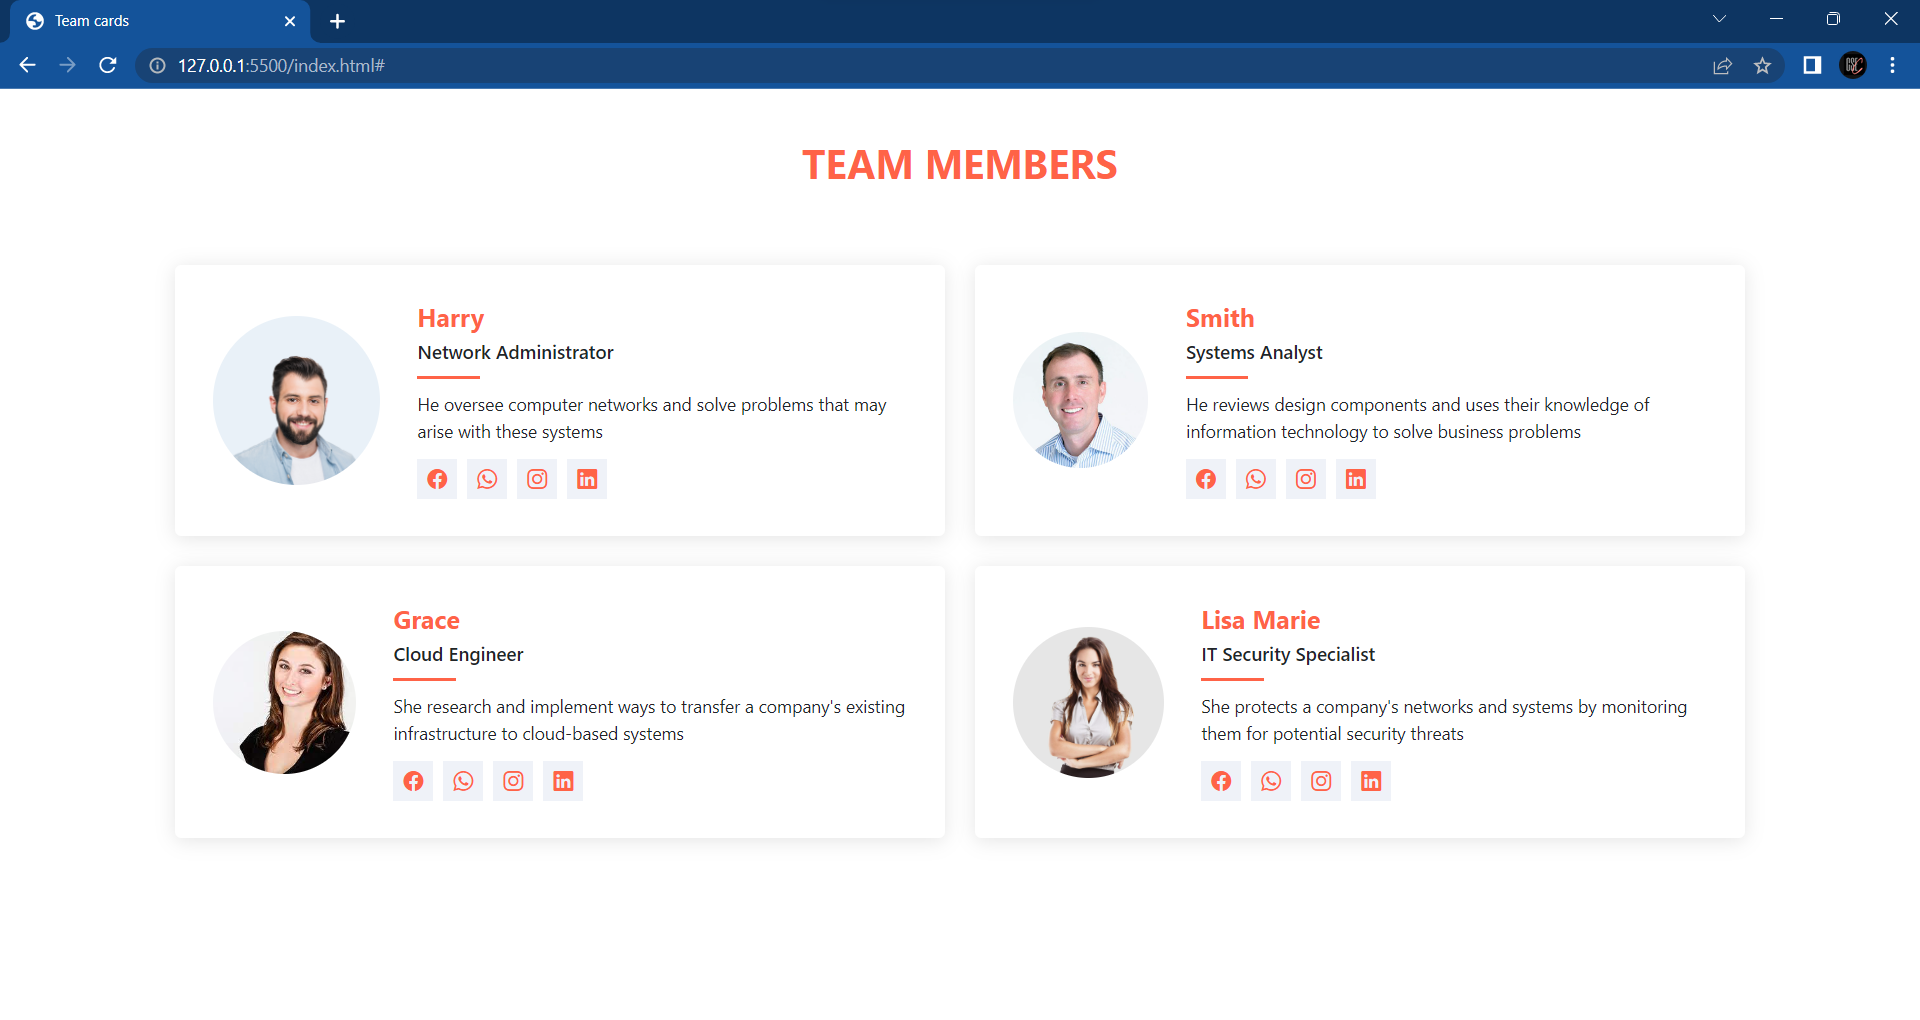
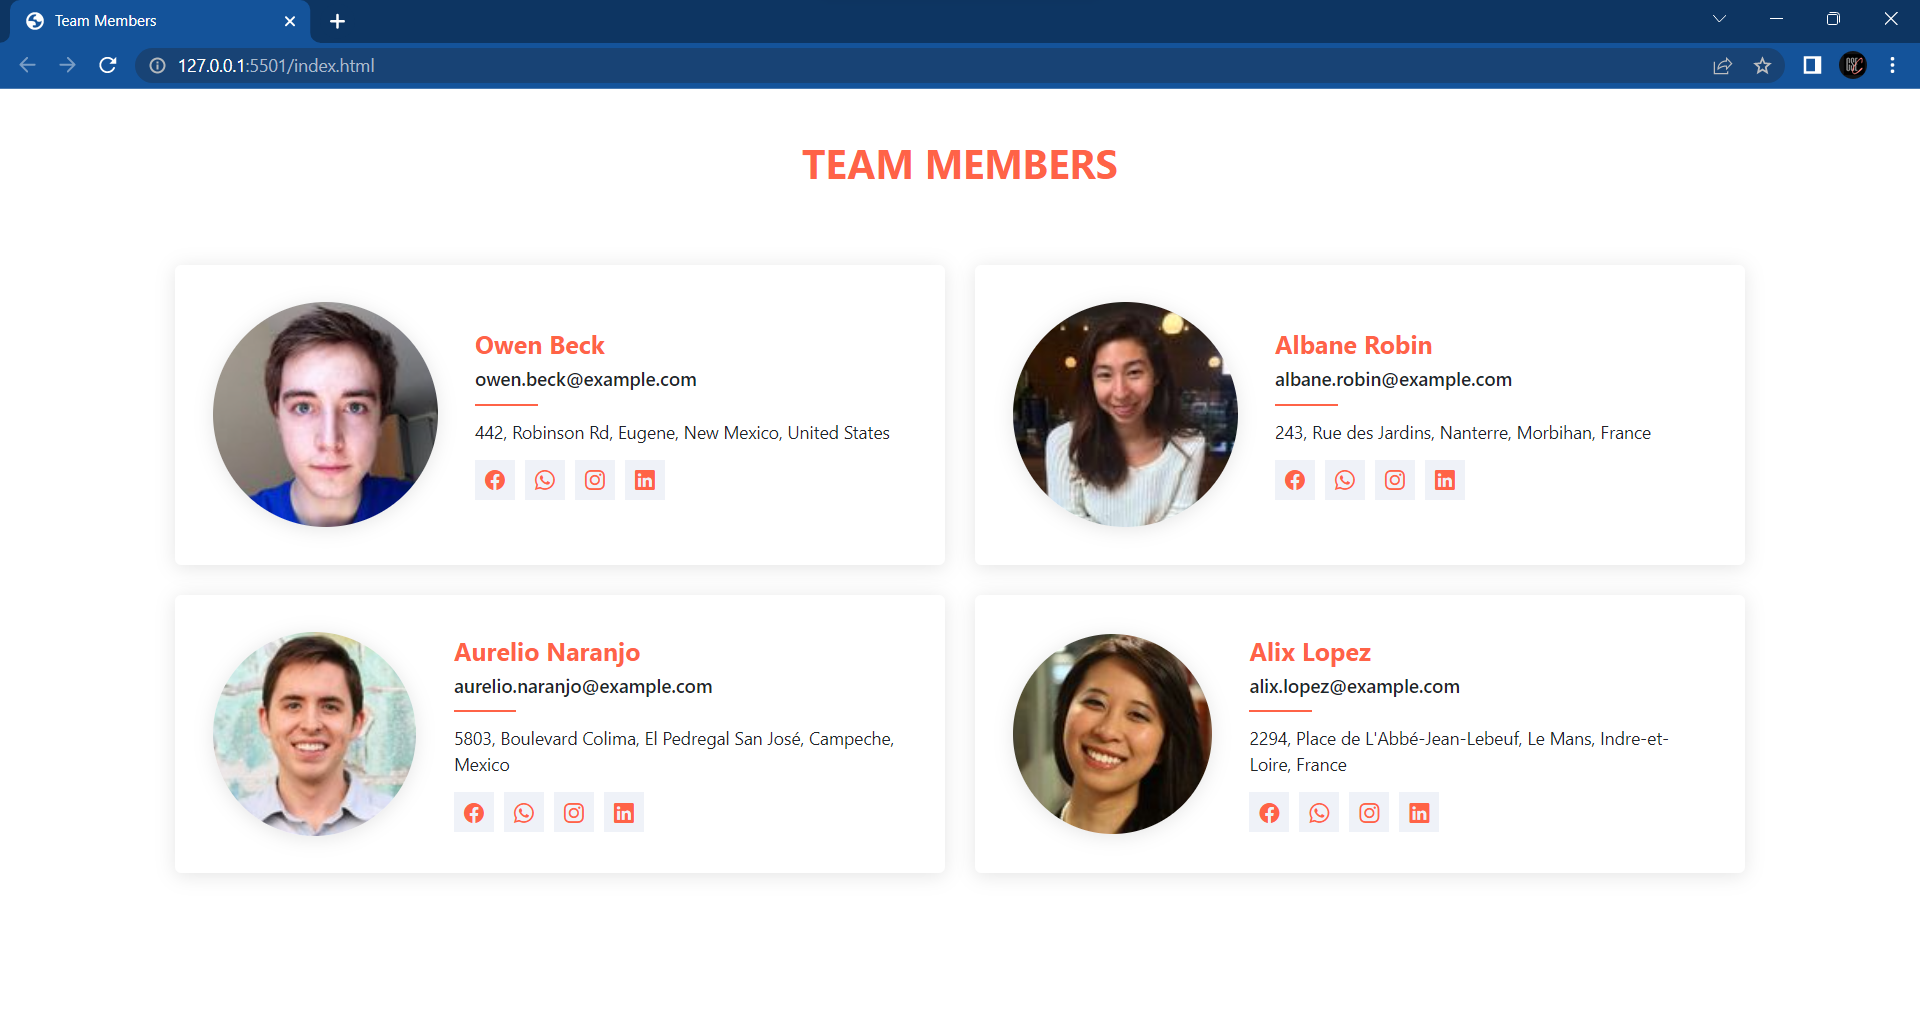
Updating the README.md file and screenshots folder

diff --git a/README.md b/README.md
@@ -4,19 +4,29 @@ This is a page or section that displays information about team members.
 
 ## Description
 
-This is a team members section built using Bootstrap 5. It displays information of the team members in a cards like structure. Each member has a profile picture, name, job title and a short description of their role. Additionally, each member has links to their social media accounts. This is completely responsive on all devices and has a mobile first design because of bootstrap.
+This visually appealing and responsive Team Members section is built using Bootstrap 5. It displays information of the team members in a elegant cards like structure. Each member has a profile picture, name, mail id and residential address. Additionally, each member has links to their social media accounts. The section's responsive design ensures that it adapts seamlessly to various screen sizes and devices, providing a consistent and visually appealing experience for users across desktops, tablets, and smartphones.
 
 ## Technologies Used
 
 * HTML
 * CSS
 * Bootstrap 5
+* JavaScript
+* [RandomUser API](https://randomuser.me/)
 
 ## Getting started
 
 1. Clone the repository <a href="https://github.com/Thirumalaikumar-M/TeamMembers_Page.git">https://github.com/Thirumalaikumar-M/TeamMembers_Page.git</a>
 2. Open `index.html` in your preferred web browser
 3. Or else try the <a href="https://thirumalaikumar-m.github.io/TeamMembers_Page/">Github hosted page</a> .
+
+## Integration with RandomUser API
+
+To streamline the process of adding and managing team members, the page leverages the power of the RandomUser API. By utilizing the RandomUser API, you can dynamically fetch and display random user data for each team member. This eliminates the need for manual entry and allows for quick updates whenever necessary.
+
+The API provides multiple data such as name, gender, location, email, dob and etc,.. I have fetched only selected data - random profile pictures, names, email addresses, and addresses, enhancing the authenticity of the team member profiles.
+
+The usage of the RandomUser API not only simplifies data management but also adds a touch of dynamism to your Team Members Page, making it more engaging and interactive for visitors.
 
 ## Screenshots
 
@@ -26,7 +36,9 @@ This is a team members section built using Bootstrap 5. It displays information 
 
 ## Acknowledgment
 
-The profile pictures used in this webpage are placeholders and do not represent any real people. Images are sourced from open licensed free image platforms on internet. And the information about the members are randomly described.
+The [RandomUser API](https://randomuser.me/) was used in this project to fetch random user data for the team member cards. We would like to express our gratitude to the creators and maintainers of the RandomUser API for providing this valuable resource.
+
+Please note that the profile pictures used in this webpage are placeholders and do not represent any real people. Images are sourced from open-licensed free image platforms on the internet. And also information such as mail id, name and address of the team members are randomly generated.
 
 ## Contributions
 
